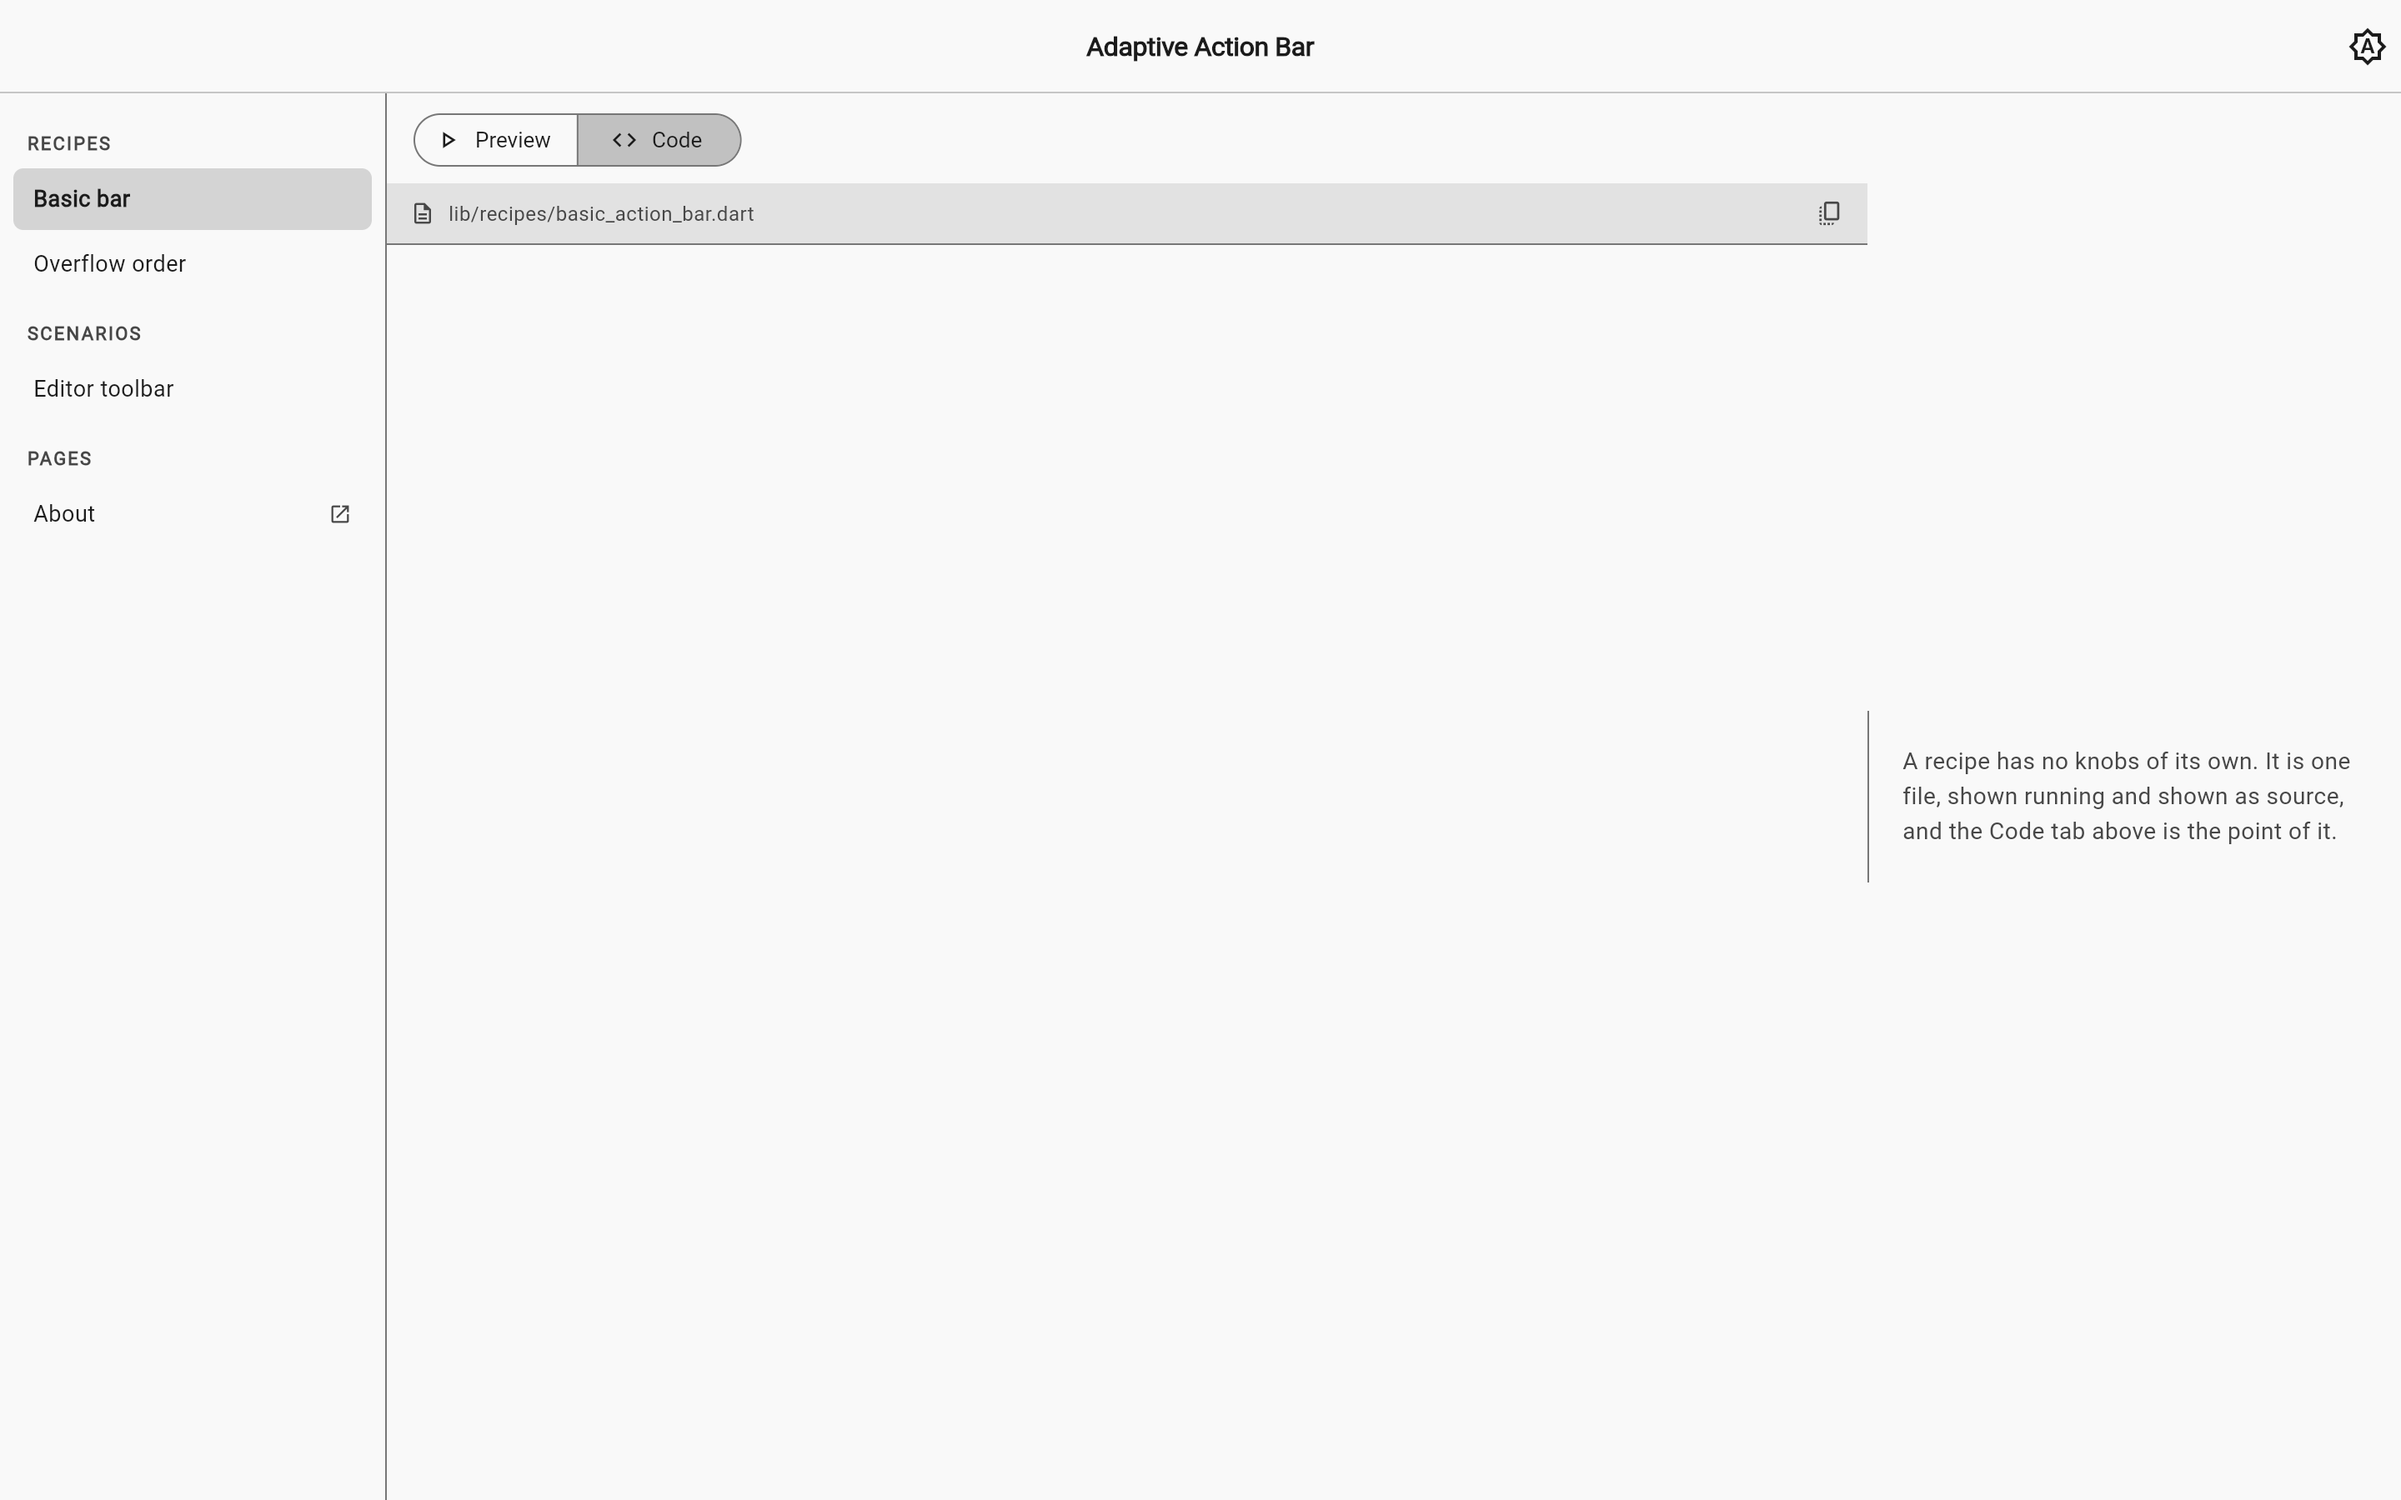
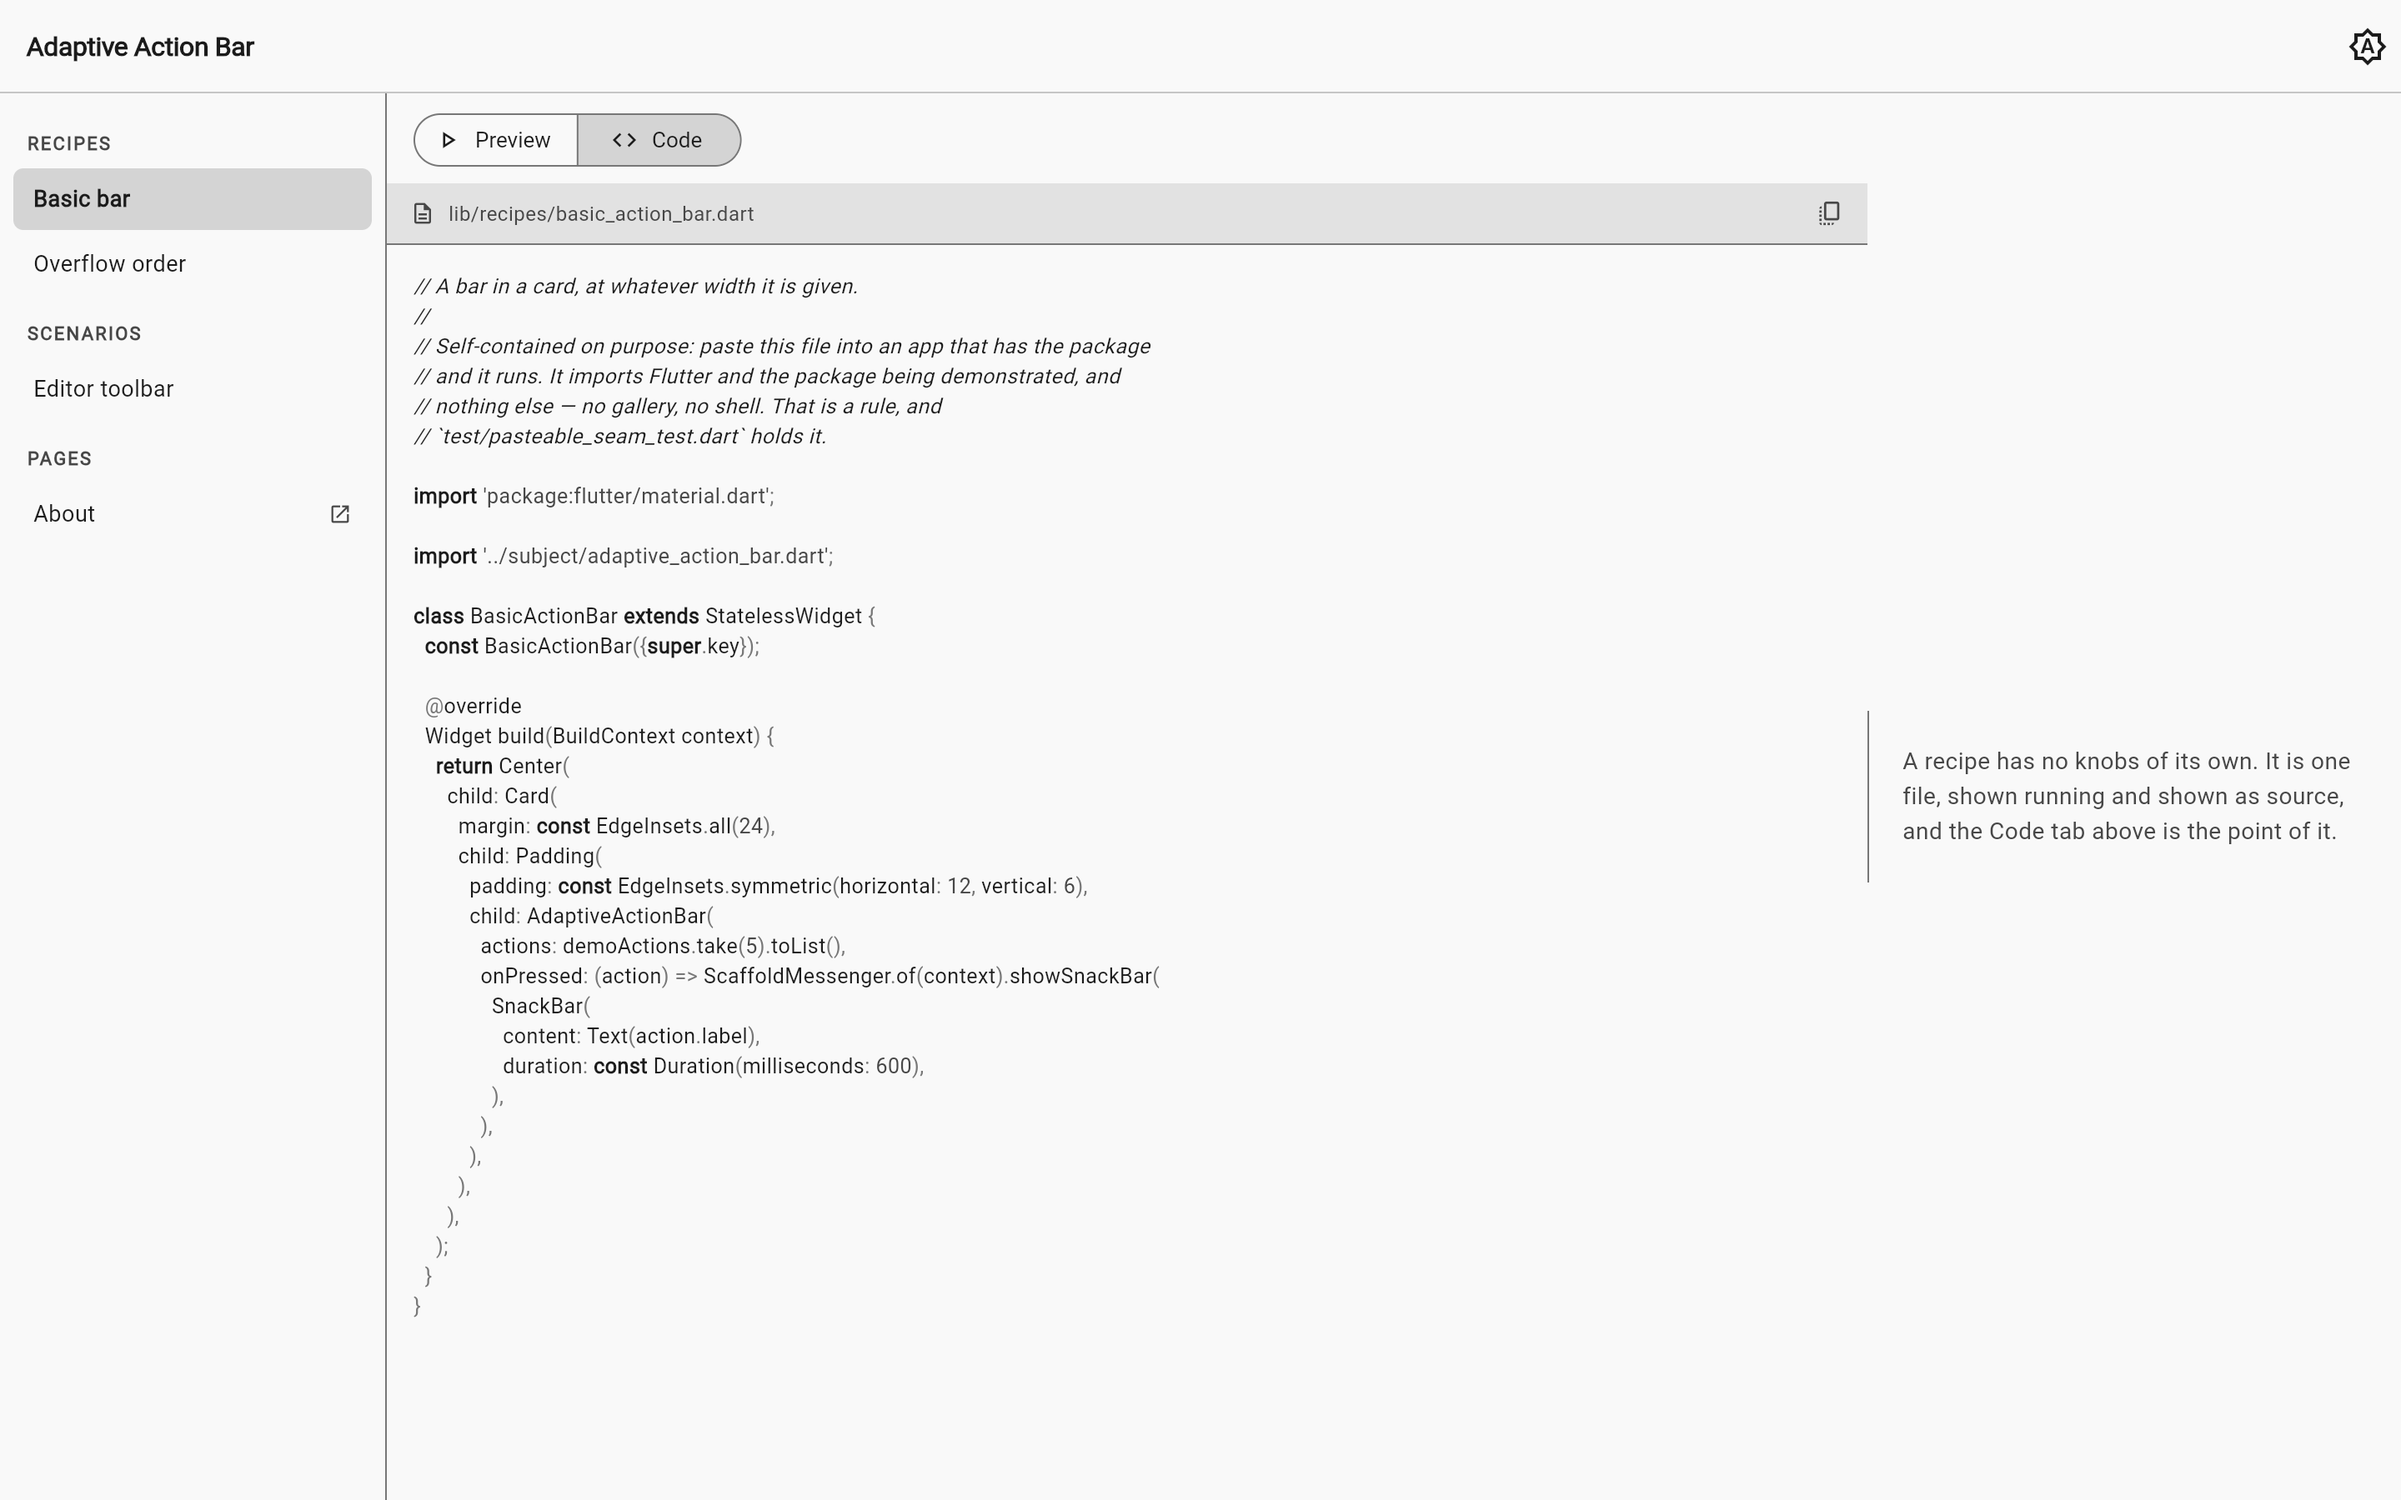
fix: the README's Code pane screenshot has never shown any code
`docs/images/code-pane.png` is the pub.dev front page's picture of the feature
this package is most specific about — a recipe's own source, read out of the
bundle. It has been an empty rectangle under a filename since bb37149, the
commit that added the tool and the images together.

## What the tool was checking

```js
// The pane prints the asset key it read. Nothing else on screen does.
expect: ['lib/recipes/basic_action_bar.dart'],
```

The reasoning is sound and the conclusion is not. `_PathBar` draws that string
from `assetPath`, synchronously, next to a `FutureBuilder` that is still waiting
on `rootBundle`. The condition is true a frame after the tab is pressed and the
capture happened there — before the file arrived, every time, for every run
anybody has made of this tool.

The three other shots check something the state actually produces: `'7 more'`,
`'Crowded'`, `'The same ten actions, no labels'`. This one reached for the only
string on screen that names the file and got the one thing that is true whether
or not the pane ever draws.

## Why it cannot be fixed with a better string

The pane's content is painted to a canvas. It is not in the DOM and it is not in
the semantics tree — measured: a 20-second poll for `class BasicActionBar` finds
nothing, before or after the fix, while the glyphs are on screen. A `Semantics`
label added to make a string check possible would be present whether or not the
paint succeeded, which is this bug again with more steps.
[…]

diff --git a/test/code_pane_test.dart b/test/code_pane_test.dart
@@ -1,0 +1,61 @@
+import 'dart:convert';
+
+import 'package:flutter/material.dart';
+import 'package:flutter/services.dart';
+import 'package:flutter_test/flutter_test.dart';
+import 'package:flutter_example_template/flutter_example_template.dart';
+
+class _Bundle extends CachingAssetBundle {
+  _Bundle(this._files);
+
+  final Map<String, String> _files;
+
+  @override
+  Future<ByteData> load(String key) async {
+    final text = _files[key];
+    if (text == null) throw FlutterError('no asset for $key');
+    return ByteData.sublistView(Uint8List.fromList(utf8.encode(text)));
+  }
+}
+
+void main() {
+  const path = 'lib/recipes/basic_action_bar.dart';
+  const source = "import 'package:flutter/material.dart';\n"
+      '\n'
+      'class BasicActionBar extends StatelessWidget {\n'
+      "  static const label = 'x \${1 + 1} y';\n"
+      '}\n';
+
+  testWidgets('the pane draws the bytes it was handed', (tester) async {
+    await tester.pumpWidget(
+      MaterialApp(
+        home: Scaffold(
+          body: CodePane(assetPath: path, bundle: _Bundle({path: source})),
+        ),
+      ),
+    );
+    await tester.pumpAndSettle();
+
+    expect(find.textContaining(path), findsWidgets, reason: 'the path bar');
+    expect(
+      find.textContaining('BasicActionBar'),
+      findsWidgets,
+      reason: 'the source itself, which is the whole point of the pane',
+    );
+  });
+
+  testWidgets('an unreadable asset says so rather than drawing nothing', (
+    tester,
+  ) async {
+    await tester.pumpWidget(
+      MaterialApp(
+        home: Scaffold(
+          body: CodePane(assetPath: path, bundle: _Bundle(const {})),
+        ),
+      ),
+    );
+    await tester.pumpAndSettle();
+
+    expect(find.textContaining('Could not read'), findsOneWidget);
+  });
+}

diff --git a/example/test/code_pane_asset_test.dart b/example/test/code_pane_asset_test.dart
@@ -1,0 +1,24 @@
+import 'package:flutter/material.dart';
+import 'package:flutter_test/flutter_test.dart';
+import 'package:flutter_example_template/flutter_example_template.dart';
+
+void main() {
+  testWidgets('the bundled recipe reaches the pane through the real bundle', (
+    tester,
+  ) async {
+    await tester.pumpWidget(
+      const MaterialApp(
+        home: Scaffold(
+          body: CodePane(assetPath: 'lib/recipes/basic_action_bar.dart'),
+        ),
+      ),
+    );
+    await tester.pumpAndSettle();
+
+    expect(
+      find.textContaining('BasicActionBar'),
+      findsWidgets,
+      reason: 'the asset key is declared in pubspec.yaml and should resolve',
+    );
+  });
+}

diff --git a/docs/agents/lessons.md b/docs/agents/lessons.md
@@ -27,8 +27,34 @@ three times here:
 - A monospace assertion that read the wrapper `SelectableText` puts around a span tree, instead of
   the leaf that names the family. The pane rendered in the proportional chrome font for six releases
   underneath it.
+- `tool/shots.mjs` checked the Code pane by looking for the **path bar above it**, on the reasoning
+  that nothing else on screen names the file. The path is drawn from `assetPath` before the bundle
+  answers, so the check was satisfied by a pane that had drawn nothing yet, and the tool
+  photographed the state before the file arrived. `docs/images/code-pane.png` was empty in the
+  commit that added the tool and in every one after, on the pub.dev front page. `code_pane.dart`
+  had already named the trap in a doc-comment — *"a pane that renders empty on error is
+  indistinguishable from a pane that loaded an empty file"* — and the tool walked into it from
+  outside.
 
-Both were green while the defect was on screen.
+All three were green while the defect was on screen.
+
+**The destination is sometimes a picture, and a picture is hard to read.** The Code pane's content
+is painted to a canvas: it is not in the DOM and not in the accessibility tree, so no string check
+can see it, and a `Semantics` label added to make one possible would be present whether or not the
+paint succeeded — the same mistake with more steps. What is left is the capture, which is what
+`isBlank` reads.
+
+## A `sleep` is not a wait, in a headless browser
+
+Diagnosing the above, four seconds of `setTimeout` before the capture produced the same empty
+picture. That read as *the file never loads*, and it sent the search into the widget tree — a
+scroll-nesting change was written, and reverted, because the pane had never been wrong.
+
+Headless Chrome had simply not drawn another frame; nothing had asked it to.
+`Page.captureScreenshot` asks, which is why polling the picture both waits and checks, and why the
+sleep that looked like a
+control was measuring nothing at all. A fixed delay in a browser driver is not a slower version of a
+poll. It is a different thing that can hold still.
 
 ## A green from a test nobody watched fail is not evidence — and neither is a red
 

diff --git a/CHANGELOG.md b/CHANGELOG.md
@@ -69,10 +69,11 @@ fourth lives in `example/` — a file the Code pane shows imports no shell.
   quietly replace the front page.
 * `tool/screenshots.sh` regenerates the README images by driving the example in
   headless Chrome, pressing controls by their semantics label and checking the
-  state it reached before capturing.
+  state it reached before capturing. The Code pane's shot also checks the
+  picture, because its content is painted to a canvas that no label can see.
 
 Runs on Flutter 3.27.0 and up, and that floor was measured rather than
-inherited from whatever built it: both suites — 21 tests here, 10 in the
+inherited from whatever built it: both suites — 23 tests here, 11 in the
 example — pass and analyse clean on 3.27.0 and on 3.41.9, and 3.24.5 fails
 with exactly one error, `CardThemeData` in `example_theme.dart`. `pubspec.yaml`
 names that line, and says why it is not swapped for the older spelling that

diff --git a/docs/adr/0011-the-sdk-floor-is-measured.md b/docs/adr/0011-the-sdk-floor-is-measured.md
@@ -1,7 +1,7 @@
 # The SDK floor is measured, and one line sets it
 
 `environment` names `sdk: ^3.6.0` and `flutter: ">=3.27.0"`. Both ends were run before either was
-written: the package and the example resolve, analyse clean and pass — 21 tests and 10 — on 3.27.0
+written: the package and the example resolve, analyse clean and pass — 23 tests and 11 — on 3.27.0
 and on 3.41.9, and 3.24.5 fails with exactly one error.
 
 The numbers this replaced were `^3.13.1`, which `flutter create` left in the initial commit, and
